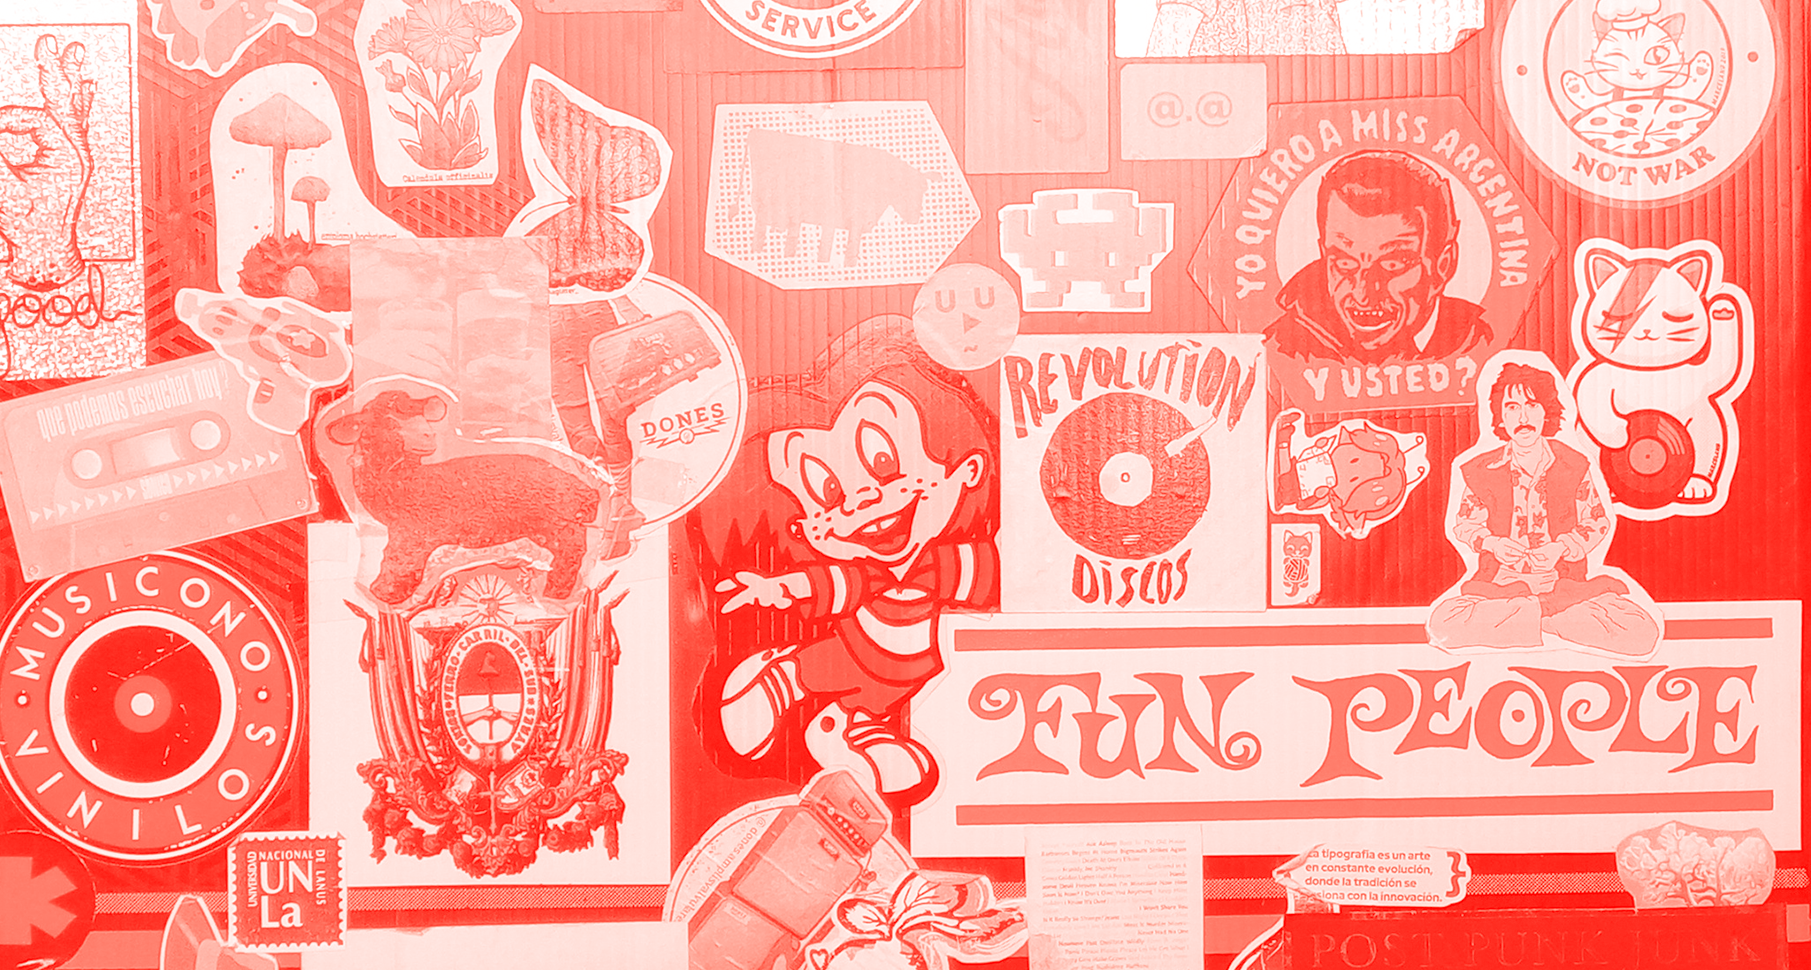
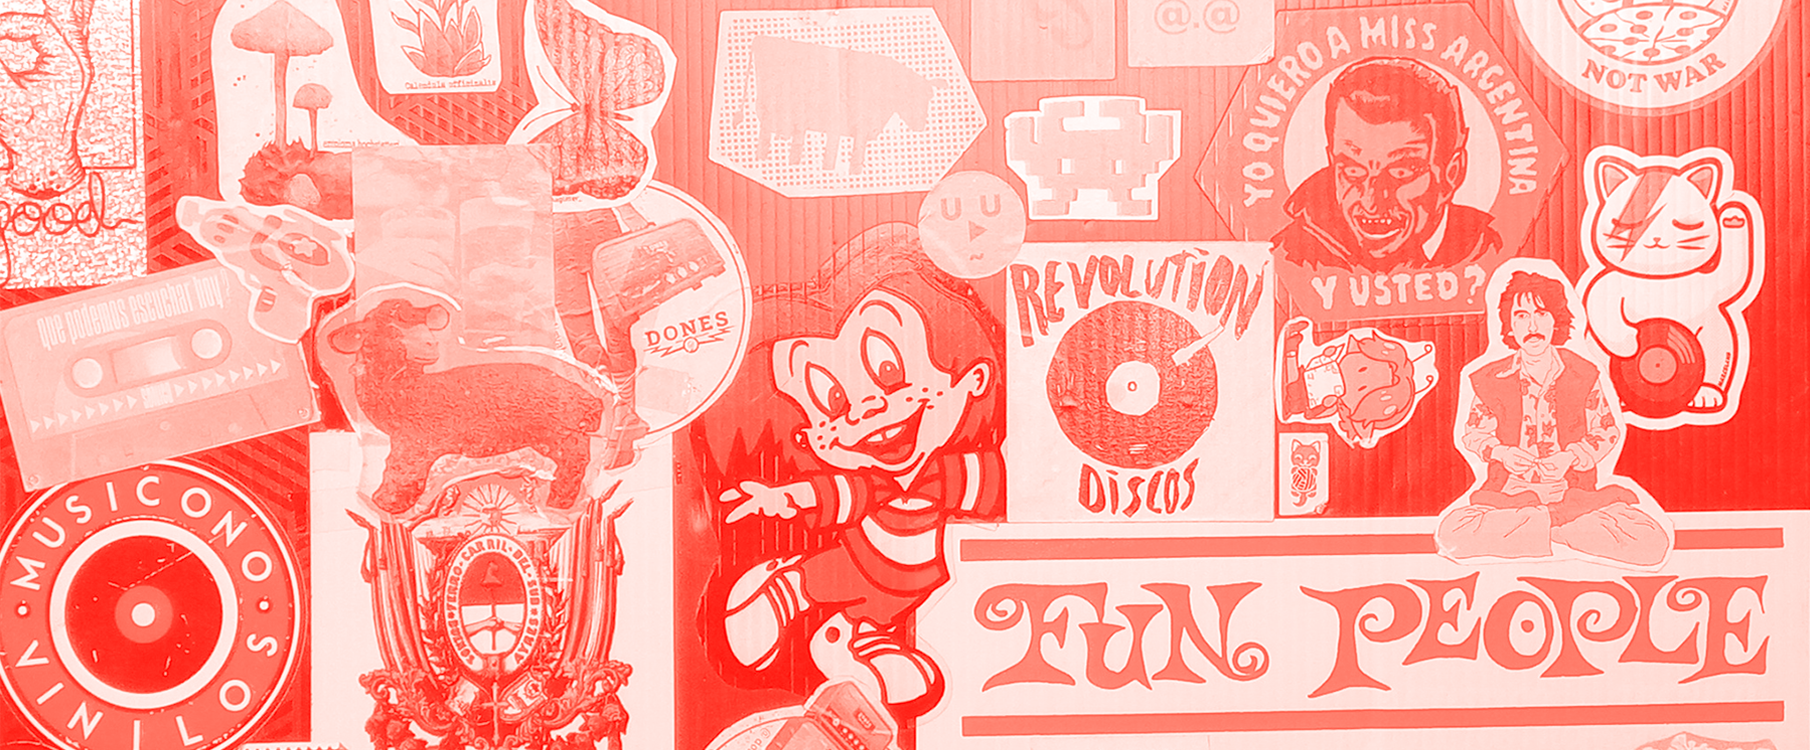
Ajustes CSS generales

diff --git a/portfolio/trabajos/portada.html b/portfolio/trabajos/portada.html
@@ -3,26 +3,43 @@
    <head>
       <meta charset="utf-8">
       <meta name="description" content="Portfolio de Cecilia Gómez">
-      <link rel="stylesheet" href="../../style.css">
-      <link rel="stylesheet" href="https://use.typekit.net/nys6vjf.css">
-      <link rel="icon" href="../../img/icon.png">
+      <link rel="stylesheet" href="../../style.css" type="text/css">
+      <link rel="stylesheet" href="https://use.typekit.net/nys6vjf.css" type="text/css">
+      <link rel="icon" href="../../img/icon.png" type="image/png">
       <title>Portada</title>
-      <!-- Excepción muy específica solo para estos html -->
+
       <style>
          html, body {
-         margin: 0;
-         padding: 0;
-         overflow: hidden;
-         height: 100%;
+            margin: 0;
+            padding: 0;
+            overflow: hidden;
+            height: 100%;
          }
       </style>
-      <!-- Excepción muy específica solo para estos html -->
    </head>
+
    <body>
-      <main class="entrada-layout">
-         <section class="entrada-media">
-            <img src="../../img/portfolio/portfolio-1.png" alt="Portada">
+      <main class="proyecto">
+         <section class="contenido-proyecto">
+
+            <section class="galeria">
+               <img id="imagen-galeria"
+                  src="../../img/portfolio/portfolio-1.png"
+                  alt="Portada">
+            </section>
+            <section class="info-proyecto">
+               <div class="encabezado-proyecto">
+                  <h2>Portfolio</h2>
+                  <h3>Ejemplo de texto</h3>
+               </div>
+
+               <p>
+                  Paisajes, objetos y personajes. Su estación de trenes, el barrio y la universidad. Estructuras que dan una morfología particular, con un ligero toque humanista. 
+               </p>
+            </section>
+
          </section>
+
          <nav class="nav-portfolio">
             <a href="../trabajos/portada.html" class="activo">✦</a>
             <a href="../trabajos/1.html">➊</a>
@@ -31,6 +48,9 @@
             <a href="../trabajos/4.html">➍</a>
             <a href="../trabajos/contraportada.html">✦</a>
          </nav>
+
       </main>
+
+      <script src="../../galeria.js"></script>
    </body>
 </html>

diff --git a/style.css b/style.css
@@ -492,49 +492,58 @@ iframe::-webkit-scrollbar {
 }
 
 .proyecto {
-    display: flex;
-    justify-content: space-between;
-    align-items: stretch;
+	display: flex;
+	justify-content: space-between;
+	align-items: stretch;
 	background-color: #CBCBCB;
 }
 
 .contenido-proyecto {
-    display: flex;
-    flex-direction: column;
+	display: flex;
+	flex-direction: column;
 }
 
 .nav-portfolio .activo {
-    color: #FF5454;
+	color: #FF5454;
 }
 
 .info-proyecto {
-    display: flex;
-    align-items: flex-start;
-    gap: 60px;
-    padding: 30px 40px;
+	display: flex;
+	align-items: flex-start;
+	gap: 60px;
+	padding: 30px 40px;
 }
 
 .encabezado-proyecto {
-    display: flex;
-    flex-direction: column;
-    gap: 5px;
-    flex: 1;
+	display: flex;
+	flex-direction: column;
+	gap: 5px;
+	flex: 1;
 }
 
 .info-proyecto p {
-    max-width: 500px;
-    line-height: 1.5;
+	max-width: 500px;
+	line-height: 1.5;
 }
 
 .galeria {
-    position: relative;
-    width: 100%;
+	position: relative;
+	width: 100%;
+	display: flex;
+	justify-content: center;
+	align-items: center;
+	overflow: hidden;
+	background-color: #CBCBCB;
 }
 
-.galeria img {
-    width: 100%;
-    height: auto;
-    display: block;
+.galeria img,
+.galeria video {
+	width: 100%;
+	height: auto;
+	display: block;
+	max-width: 100%;
+	max-height: 100%;
+	object-fit: contain;
 }
 
 .flecha {
@@ -545,7 +554,6 @@ iframe::-webkit-scrollbar {
 	color: #FF5454;
 	border: none;
 	padding: 2px 10px 7px 10px;
-	
 	align-items: center;
 	font-size: 2rem;
 	cursor: url("img/hand-cursor.png"), pointer;
@@ -566,23 +574,18 @@ iframe::-webkit-scrollbar {
 }
 
 .entrada-layout {
-  display: flex;
-  align-items: stretch;
-  justify-content: space-between;
-  min-height: 100vh;
+	display: flex;
+	align-items: stretch;
+	min-height: 100vh;
 }
 
 .entrada-media {
-  flex: 1;
-  display: flex;
-  justify-content: center;
-  align-items: center;
-}
+	flex: 1;
 
-.entrada-media img {
-  width: 100%;
-  height: auto;
-  display: block;
+	background-image: url("img/portfolio/portfolio-1.png");
+	background-size: cover;
+	background-position: center;
+	background-repeat: no-repeat;
 }
 
 

diff --git a/portfolio/trabajos/contraportada.html b/portfolio/trabajos/contraportada.html
@@ -1,10 +1,56 @@
 <!doctype html>
-<html>
-<head>
-<meta charset="utf-8">
-<title>Documento sin título</title>
-</head>
+<html lang="es">
+   <head>
+      <meta charset="utf-8">
+      <meta name="description" content="Portfolio de Cecilia Gómez">
+      <link rel="stylesheet" href="../../style.css" type="text/css">
+      <link rel="stylesheet" href="https://use.typekit.net/nys6vjf.css" type="text/css">
+      <link rel="icon" href="../../img/icon.png" type="image/png">
+      <title>Contraportada</title>
 
-<body>
-</body>
+      <style>
+         html, body {
+            margin: 0;
+            padding: 0;
+            overflow: hidden;
+            height: 100%;
+         }
+      </style>
+   </head>
+
+   <body>
+      <main class="proyecto">
+         <section class="contenido-proyecto">
+
+            <section class="galeria">
+               <img id="imagen-galeria"
+                  src="../../img/portfolio/portfolio-2.png"
+                  alt="Portada">
+            </section>
+            <section class="info-proyecto">
+               <div class="encabezado-proyecto">
+                  <h2>Contraportada</h2>
+                  <h3>Texto hidden</h3>
+               </div>
+
+               <p>
+                  Texto hidden. Paisajes, objetos y personajes. Su estación de trenes, el barrio y la universidad. Estructuras que dan una morfología particular, con un ligero toque humanista. 
+               </p>
+            </section>
+
+         </section>
+
+         <nav class="nav-portfolio">
+            <a href="../trabajos/portada.html">✦</a>
+            <a href="../trabajos/1.html">➊</a>
+            <a href="../trabajos/2.html">➋</a>
+            <a href="../trabajos/3.html">➌</a>
+            <a href="../trabajos/4.html">➍</a>
+            <a href="../trabajos/contraportada.html" class="activo">✦</a>
+         </nav>
+
+      </main>
+
+      <script src="../../galeria.js"></script>
+   </body>
 </html>

diff --git a/portfolio/trabajos/4.html b/portfolio/trabajos/4.html
@@ -27,9 +27,10 @@
            <button class="flecha izquierda" onclick="anterior()">
                ←
                </button>
-               <img id="imagen-galeria"
+               <video id="imagen-galeria"
                   src="../../img/portfolio/4-a.mp4"
                   alt="Portada de Trabajo 4">
+				</video>
                <div id="galeria"
                   data-imagenes='[
                   "../../img/portfolio/4-a.mp4",
